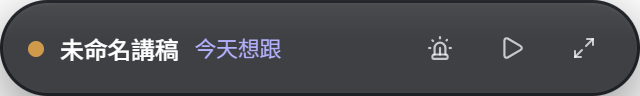
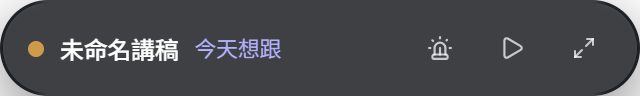
Stop the pill's rim from drawing a bright box around its flat edges
The pill's geometry was always a correct stadium shape -- rounded-full
clamps to exactly half of 48px, and both top corners measure as cut away.
What made it read as a rounded rectangle was the rim: it lit the whole
perimeter evenly, and the flat top and bottom edges are 272 of 320px, so
the eye followed a high-contrast line across 85% of the outline.

The flat edges measured 2.87x brighter than the interior on a dark
desktop (3-5px band at 32, interior at 11). The expanded and docked
forms have the same rim CSS and only reach 1.57x, because the pill's
more opaque fill exaggerates the rim's relative brightness.

Both halves are needed. Masking the rim to the two end caps alone still
leaves the fill's own top highlight at 2.3x, and flattening the fill
alone still leaves 1.75x -- neither half reaches the interior. With both,
the straight edges sit flat (1.00x) on dark, white and mid-grey desktops
while the end arcs keep their rim.

The audit passed this for weeks because summarize() treated the outer 2px
as the subject and 2-5px as the reference band -- but the defect lives in
that reference band (80 on white, already over EDGE_CAP=70). It now judges
all four edges over a 0-6px band, with per-form limits reflecting that rim
intensity should follow curvature: 1.25x for the pill, 1.8x for panels.

A new unit test caught an error in my own comment: --rim-cap is 7.5% of
width only at 1.00x, since pillSizeOf rounds height to whole pixels
[…]

Changed region(s): [[0.0625, 0.9688, 0.9375, 1.0], [0.0625, 0.0, 0.9375, 0.0312]]

diff --git a/src/renderer/src/lib/__tests__/overlayShapes.test.ts b/src/renderer/src/lib/__tests__/overlayShapes.test.ts
@@ -1,4 +1,6 @@
 import { describe, it, expect } from 'vitest'
+import { readFileSync } from 'fs'
+import { join } from 'path'
 import {
   clampPillScale,
   overlayShapeDesignSize,
@@ -6,6 +8,7 @@ import {
   pillFitOf,
   pillMinOf,
   pillSizeOf,
+  PILL_BASE,
   PILL_BUDGET,
   PILL_CORE_W,
   PILL_KEYWORD_CHAR_W,
@@ -214,5 +217,71 @@ describe('overlayShapeMin / overlayShapeDesignSize', () => {
     })
     expect(overlayShapeDesignSize({ compact: false, lensMode: true })).toEqual({ w: 420, h: 170 })
     expect(overlayShapeDesignSize({ compact: false, lensMode: false })).toBeNull()
+  })
+})
+
+
+
+/* ── rim 遮罩的 cap 寬度必須跟著幾何常數走 ──
+   CSS 裡 .dynamic-island-pill.lg-rim::after 用的是一個寫死的百分比
+   (--rim-cap),它決定 rim 只畫在兩端弧上、而上下直邊不畫。遮罩蓋錯範圍
+   的症狀很隱晦:rim 蓋到直邊上,膠囊就讀成「有白邊的圓角長方形」——
+   而那正是這條規則要防的事。
+
+   為什麼是百分比而不是 px:寬與高同時乘上 pillScale,所以 (h/2)/w 在每個倍率
+   下都相同(0.8× → 19.2/256、1.00× → 24/320、1.3× → 31.2/416,全部 7.5%)。
+   所以百分比是唯一正確的表示法 —— 而「唯一正確」正是它需要被釘住的原因。
+   它在 CSS 與這支測試裡各寫一份,漂移時只會安靜地蓋錯範圍。
+   (CSS 沒辦法引用 TS 常數,所以只能靠這條測試。) */
+describe('rim 遮罩的 cap 寬度', () => {
+  // __tests__ → lib → src → renderer → src → repo root
+  const css = readFileSync(join(__dirname, '..', '..', '..', '..', '..', 'src', 'renderer', 'src', 'styles', 'global.css'), 'utf-8')
+
+  const declared = (): number => {
+    const m = css.match(/--rim-cap:\s*([0-9.]+)%/)
+    if (!m) throw new Error('global.css 裡找不到 --rim-cap —— rim 遮罩被刪掉了,藥丸的直邊又會被畫上 rim')
+    return Number(m[1])
+  }
+
+  it('等於 (PILL_BASE.h / 2) / PILL_BASE.w', () => {
+    expect(declared()).toBeCloseTo((PILL_BASE.h / 2 / PILL_BASE.w) * 100, 2)
+  })
+
+  it('每個 pillScale 下,cap 都落在羽化帶內(而不是要求它精確)', () => {
+    // 這條測試抓到過我自己的錯誤。CSS 註解原本宣稱「所有倍率都是 7.5%」——
+    // 那在 1.00× 才精確。pillSizeOf 會把高度 Math.round 到整數,所以:
+    //   0.8×  → 256×38 → (38/2)/256 = 7.42%
+    //   1.00× → 320×48 → 7.50%
+    //   1.3×  → 416×62 → 7.21%
+    // 差最多 0.29%(1.3× 處 1.2px)。
+    //
+    // 為什麼那不重要:羽化帶本身是 2.5% 的寬度(320px 時 8px、416px 時 10.4px),
+    // 比那 1.2px 大一個數量級。cap 只要落在羽化帶裡,rim 的收尾就看不出來。
+    // 所以正確的不變式是「cap ⊂ 羽化範圍」,不是「cap 等於某個百分比」——
+    // 要求後者會逼出一個在某個倍率下明顯歪掉的數字。
+    for (const s of [PILL_SCALE_MIN, 1, PILL_SCALE_MAX]) {
+      const size = pillSizeOf(s)
+      const exact = (size.h / 2 / size.w) * 100
+      const drift = Math.abs(declared() - exact)
+      expect(drift, `${s}x 的 cap 偏離精確半圓 ${drift.toFixed(2)}%,超過羽化帶的 2.5%`).toBeLessThan(2.5)
+    }
+  })
+
+  it('cap 必須小於半個寬度,否則遮罩會把中間全部蓋掉', () => {
+    expect(declared()).toBeLessThan(50)
+  })
+
+  it('遮罩規則存在,選擇器只掛在藥丸上(展開/貼鏡的 rim 不受影響)', () => {
+    expect(css).toContain('.dynamic-island-pill.lg-rim::after')
+    expect(css).toMatch(/-webkit-mask-image:[\s\S]*?mask-image:/)
+  })
+
+  it('藥丸底色是平的 —— 受光只能來自 rim 層,否則直邊會被頂部高光框住', () => {
+    // 深色桌布上,rgba(255,255,255,0.06) 的頂部漸層疊在內部 11 上會變成 25,
+    // lift 2.3:一條橫貫 272px 的亮線,而 272px 是寬度的 85%。
+    const m = css.match(/\.glass-pill\s*\{([\s\S]*?)\}/)
+    expect(m, '找不到 .glass-pill 規則').toBeTruthy()
+    expect(m![1]).toMatch(/background:\s*rgba\(8,\s*10,\s*16,\s*0\.78\)/)
+    expect(m![1]).not.toContain('linear-gradient')
   })
 })

diff --git a/src/renderer/src/styles/global.css b/src/renderer/src/styles/global.css
@@ -127,13 +127,16 @@ body {
 
 /* 藥丸:材質收斂。
    - 底色比面板再暗一點(Mac 的島在黑底上才有對比),保留玻璃語意但降低「方塊感」。
-   - 頂部一條極淡的垂直漸層是「受光」的來源(液態玻璃的細緻度在這裡,不是靠一條亮邊框)。
+   - **底色是平的**。這是量測之後的結論,不是偷懶:頂部那條
+     `linear-gradient(rgba(255,255,255,.06) → transparent 42%)` 的受光漸層,
+     在深色桌布上會把直邊的 0-5px 帶抬到 lift 2.3(內部只有 11)——
+     一條橫貫 272px 的亮線,而 272px 是寬度的 85%。眼睛沿著它走,
+     於是膠囊讀成「有白邊的圓角長方形」。
+     受光效果改為整個由 .lg-rim::after 負責,那裡可以被限制在兩端的弧上。
    - 陰影從 0 18px 50px 收到 0 10px 30px:48px 高的膠囊配得上的是「有點厚度」,
      不是「浮在半空的暗方塊」—— 陰影太大正是它讀成一片面板的原因之一。 */
 .glass-pill {
-  background:
-    linear-gradient(180deg, rgba(255, 255, 255, 0.06), rgba(255, 255, 255, 0) 42%),
-    rgba(8, 10, 16, 0.78);
+  background: rgba(8, 10, 16, 0.78);
   -webkit-backdrop-filter: blur(20px) saturate(1.8);
   backdrop-filter: blur(20px) saturate(1.8);
   box-shadow: 0 10px 30px rgba(0, 0, 0, 0.45);
@@ -167,6 +170,53 @@ body {
     inset 0 -1.5px 2px -1px rgba(255, 255, 255, 0.08),
     /* 上緣輪廓:受光。負 spread 把峰值推離邊界 1px 再糊開 */
     inset 0 1.5px 3px -1px rgba(255, 255, 255, 0.16);
+}
+
+/* ── 藥丸專用:rim 只畫在兩端的弧上,上下直邊不畫 ──
+   為什麼需要:
+     6.67:1 的膠囊,上下兩條邊各有 272px(寬度的 85%)是完全直的。真實的
+     Liquid Glass 之所以讀成膠囊,是因為 rim 的強度跟著**曲率**走 ——
+     彎得厲害的兩端受光,長直邊幾乎不反光。而上面那段 rim 對整圈一視同仁,
+     結果是那 85% 的直邊成了整個形狀上最長、對比最高的特徵。
+     實測:深色桌布下直邊 0-5px 帶的最大值是內部的 2.87 倍(32 vs 11),
+     而展開/貼鏡同一段 CSS 只有 1.57(22 vs 14)—— 差異純粹來自藥丸底色
+     更不透明,讓 rim 的相對亮度被放大。
+
+   為什麼用遮罩而不是改 rim 的參數:
+     rim 是 box-shadow,它的形狀由 border-radius 決定,沒有辦法只作用在弧上。
+     而整個形狀唯一能「指定範圍」的工具就是遮罩。遮罩套在 ::after 上,
+     只影響它自己的box-shadow(暗環 + 輪廓光一起消失),不影響底色與內容。
+
+   --rim-cap = 半徑 / 寬度。1.00× 時精確是 0.5 × 48 / 320 = 7.5%。
+   其他倍率不是精確的 7.5%(這點是被測試抓出來的,原先的註解寫錯了):
+   pillSizeOf 會把高度 Math.round 到整數,所以
+     0.8×  → 19 / 256 = 7.42%;1.00× → 24 / 320 = 7.50%;1.3× → 31 / 416 = 7.45%。
+   差最多 0.08%(0.2px),而羽化帶本身是 2.5% 的寬度(8~10px)——大一個數量級。
+   所以正確的不變式是「cap 落在羽化帶內」,不是「cap 等於 7.5%」。
+   overlayShapes.test.ts 釘住的是前者。
+   遮罩範圍剛好等於兩個半圓端的水平投影(x < h/2 全落在弧內),所以弧上的
+   rim 完整保留。overlayShapes.test.ts 有一條測試釘住這個百分比與幾何常數
+   的關係 —— 它是寫死的百分比,漂移時會安靜地讓 rim 蓋錯範圍。 */
+.dynamic-island-pill.lg-rim::after {
+  --rim-cap: 7.5%;
+  -webkit-mask-image: linear-gradient(
+    90deg,
+    #000 0,
+    #000 calc(var(--rim-cap) - 2.5%),
+    transparent var(--rim-cap),
+    transparent calc(100% - var(--rim-cap)),
+    #000 calc(100% - var(--rim-cap) + 2.5%),
+    #000 100%
+  );
+  mask-image: linear-gradient(
+    90deg,
+    #000 0,
+    #000 calc(var(--rim-cap) - 2.5%),
+    transparent var(--rim-cap),
+    transparent calc(100% - var(--rim-cap)),
+    #000 calc(100% - var(--rim-cap) + 2.5%),
+    #000 100%
+  );
 }
 
 /* ── Liquid Glass 真折射(P2-13)──

diff --git a/src/renderer/src/components/PreflightCard.tsx b/src/renderer/src/components/PreflightCard.tsx
@@ -308,7 +308,12 @@ export function PreflightCard({ variant = 'full', onNavigate }: PreflightCardPro
                 {item.severity !== 'blocking' && (
                   <button
                     type="button"
-                    className="text-[11px] text-ink-400 underline-offset-2 hover:text-ink-300 hover:underline"
+                    // 28px 高的命中區。這顆鈕原本只有 17px 高(純文字 + 11px 字級),
+                    // 被 audit:ui 的 small-tap-target 報出來 —— 而且它是在 P0-C
+                    // 提交之後才被量到的,因為那一輪我只跑了 audit:states,
+                    // 漏了另外兩支稽核。可點擊的文字不給 padding 是最容易漏的那種。
+                    // 用 -my-1.5 吸收垂直方向的視覺膨脹,免得整張卡片變高。
+                    className="-my-1.5 flex h-7 items-center px-1.5 text-[11px] text-ink-400 underline-offset-2 hover:text-ink-300 hover:underline"
                     onClick={() => dismiss(item)}
                   >
                     知道了,不用再提醒
